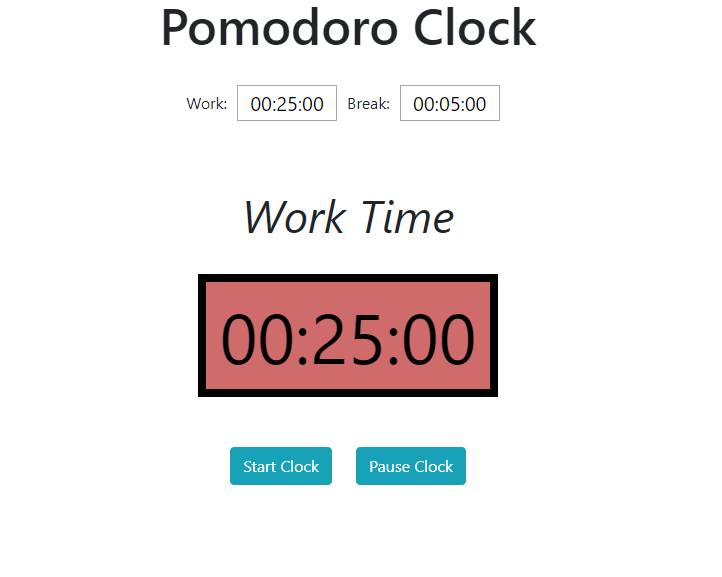
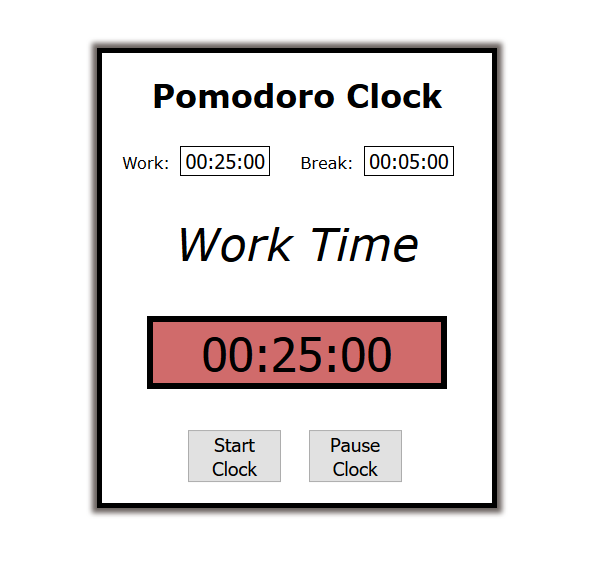
Update Pomodoro project

diff --git a/pomodoro/js/index.js b/pomodoro/js/index.js
@@ -1,16 +1,18 @@
-'use strict';
-
 function _toConsumableArray(arr) { if (Array.isArray(arr)) { for (var i = 0, arr2 = Array(arr.length); i < arr.length; i++) { arr2[i] = arr[i]; } return arr2; } else { return Array.from(arr); } }
 
-var pomodoroClock = function createClock() {
-  var workTime = document.querySelector('#workTime');
-  var breakTime = document.querySelector('#breakTime');
-  var startBtn = document.querySelector('.startClock');
-  var errMsg = document.querySelector('.errMsg');
-  var promptChange = { workTime: false, breakTime: false };
+var pomodoroClock = function () {
+  "use strict";
+
+  var workTime = document.querySelector(".workTime");
+  var breakTime = document.querySelector(".breakTime");
+  var startBtn = document.querySelector(".js-start-clock");
+  var pauseBtn = document.querySelector(".js-pause-clock");
+  var errMsg = document.querySelector(".js-err-msg");
   var intervalID = 0;
   var clockPaused = false;
   var isABreak = false;
+  var promptChange = { 'workTime': false, 'breakTime': false };
+  var tme = void 0;
 
   var validation = function validation(inputEvent) {
     var inputEle = inputEvent.target;
@@ -20,17 +22,14 @@ var pomodoroClock = function createClock() {
 
     // check length & characters
     if (timeStr.match(re) !== null) {
-      // handle cross browser differences in the input event object
-      if (inputEvent.srcElement !== undefined) {
-        promptChange[inputEvent.srcElement.id] = true;
-      } else if (inputEvent.target !== undefined) {
-        promptChange[inputEvent.target.id] = true;
-      }
+      promptChange[inputEle.className] = true;
       startBtn.disabled = false;
+      pauseBtn.disabled = false;
       inputEle.style.background = '#FFFFFF';
       errMsg.innerText = '';
     } else {
       startBtn.disabled = true;
+      pauseBtn.disabled = true;
       inputEle.style.background = '#C02424';
       errMsg.innerText = 'hh:mm:ss';
     }
@@ -47,8 +46,7 @@ var pomodoroClock = function createClock() {
   };
 
   var startClock = function startClock() {
-    var clock = document.querySelector('.clock');
-    var tme = void 0;
+    var clock = document.querySelector(".js-clock");
 
     // converts a time string to a date value, and sets the clock's initial value
     var setTime = function setTime(timeStr) {
@@ -64,20 +62,22 @@ var pomodoroClock = function createClock() {
     // start the pomodoro clock countdown
     var countdown = function countdown() {
       // handle transitions between work periods and break periods
-      if (clock.value === '00:00:00') {
+      // mutiple date object functions in if statement used as a workaround
+      // to handle Edge/IE bug when checking value of the clock input element.
+      // (clock.value === '00:00:00' never returns 'true' in MS browsers)
+      if (tme.getHours() === 0 && tme.getMinutes() === 0 && tme.getSeconds() === 0) {
         clearInterval(intervalID);
-        document.querySelector('.timer').play();
+        document.querySelector(".js-timer").play();
         if (!isABreak) {
           isABreak = true;
-          document.querySelector('.indicator').innerText = 'Break Time';
+          document.querySelector(".js-indicator").innerText = "Break Time";
           tme = setTime(breakTime.value);
-          intervalID = setInterval(countdown, 1000);
         } else {
           isABreak = false;
-          document.querySelector('.indicator').innerText = 'Work Time';
+          document.querySelector(".js-indicator").innerText = "Work Time";
           tme = setTime(workTime.value);
-          intervalID = setInterval(countdown, 1000);
         }
+        intervalID = setInterval(countdown, 1000);
       }
 
       // decrement clock time by 1 second
@@ -85,6 +85,7 @@ var pomodoroClock = function createClock() {
       // display on the web document
       clock.value = tme.toLocaleTimeString('en-GB');
     };
+
     if (workTime.value === '00:00:00' || breakTime.value === '00:00:00') {
       errMsg.innerText = 'Be sure to enter a duration for each period!';
       return;
@@ -97,13 +98,11 @@ var pomodoroClock = function createClock() {
     // ensure clock responds to user interaction
     if (!clockPaused) {
       tme = setTime(workTime.value);
-      document.querySelector('.indicator').innerText = 'Work Time';
+      document.querySelector(".js-indicator").innerText = "Work Time";
     } else if (promptChange.workTime && !isABreak) {
       tme = setTime(workTime.value);
     } else if (promptChange.breakTime && isABreak) {
       tme = setTime(breakTime.value);
-    } else {
-      tme = setTime(clock.value);
     }
 
     clockPaused = false;
@@ -126,10 +125,10 @@ var pomodoroClock = function createClock() {
   };
 }();
 
-document.querySelector('#workTime').addEventListener('input', pomodoroClock.validation);
+document.querySelector('.workTime').addEventListener('input', pomodoroClock.validation);
 
-document.querySelector('#breakTime').addEventListener('input', pomodoroClock.validation);
+document.querySelector('.breakTime').addEventListener('input', pomodoroClock.validation);
 
-document.querySelector('.startClock').addEventListener('click', pomodoroClock.startClock);
+document.querySelector(".js-start-clock").addEventListener("click", pomodoroClock.startClock);
 
-document.querySelector('.pauseClock').addEventListener('click', pomodoroClock.pauseClock);
+document.querySelector(".js-pause-clock").addEventListener("click", pomodoroClock.pauseClock);

diff --git a/pomodoro/index.html b/pomodoro/index.html
@@ -5,10 +5,10 @@
   <meta charset="UTF-8">
   <title>Pomodoro Clock</title>
   <meta charset="utf-8">
+<meta name="viewport" content="width=device-width, initial-scale=1">
 <title>Pomodoro Clock</title>
   
-  <link rel='stylesheet prefetch' href='https://cdnjs.cloudflare.com/ajax/libs/twitter-bootstrap/4.0.0-beta.2/css/bootstrap.css'>
-
+  
       <link rel="stylesheet" href="css/style.css">
 
   
@@ -16,43 +16,37 @@
 
 <body>
 
-  <div class="container-fluid">
+  <audio class="js-timer" src="https://www.soundjay.com/clock/sounds/alarm-clock-01.mp3" autostart="false"></audio>
 
-  <audio class="timer" src="https://www.soundjay.com/clock/sounds/alarm-clock-01.mp3" autostart="false"></audio>
+  <div class="container">
 
-  <div class="row">
-    <div class="mx-auto">
-      <h1>Pomodoro Clock</h1>
-     </div>
-  </div>
+    <h1>Pomodoro Clock</h1>
 
-  <div class="row">
-    <div class="mx-auto userPrompts">
-      <form class="form-inline">
-        <div class="form-group">
-          <label>Work:<input type="text" id="workTime" class="prompt text-center" value="00:25:00" /></label>
-          <label>Break:<input type="text" id="breakTime" class="prompt text-center" value="00:05:00" /></label>
-          <label class="errMsg"></label>
+    <div class="form-container">
+      <form>
+        <div class="prompt">
+          <label>Work:<input type="text" class="workTime" value="00:25:00" /></label>
+        </div>
+        <div class="prompt">
+          <label>Break:<input type="text" class="breakTime" value="00:05:00" /></label>
         </div>
       </form>
     </div>
-  </div>
 
-  <div class="row">
-    <div class="mx-auto clockContainer">
-      <p class="indicator text-center">Work Time</p>
-        <input type="text" class="clock text-center" value="00:25:00" readonly />
+    <p class="err-msg js-err-msg"></p>
+
+    <p class="indicator js-indicator">Work Time</p>
+
+    <div class="clock-container">
+      <input type="text" class="clock js-clock" value="00:25:00" readonly />
     </div>
-  </div>
 
-  <div class="row">
-    <div class="mx-auto userButtons">
-      <button type="button" class="btn btn-info startClock">Start Clock</button>
-      <button type="button" class="btn btn-info pauseClock">Pause Clock</button>
+    <div class="btn-container">
+      <button type="button" class="js-start-clock">Start Clock</button>
+      <button type="button" class="js-pause-clock">Pause Clock</button>
     </div>
-  </div>
 
-</div>
+  </div>
   
   
 

diff --git a/pomodoro/css/style.css b/pomodoro/css/style.css
@@ -1,41 +1,85 @@
+* {
+  box-sizing: border-box;
+}
+
+body {
+  font-family: Verdana, sans-serif;
+}
+
 h1 {
-  margin-bottom: 20px;
-  font-size: 50px;
+  font-size: 200%;
+  text-align: center;
 }
 
 input {
   margin: 10px;
-  font-size: 20px;
-  width: 100px;
+  font-size: 125%;
+  width: 90px;
+  text-align: center;
+  border: 1px solid;
 }
 
 button {
+  width: 95px;
   margin: 10px;
+  font-size: 120%
 }
 
-.userPrompts {
-  margin-bottom: 20px;
+.container {
+  width: 100%;
+  max-width: 400px;
+  margin: auto;
+  border: 5px solid black;
+  box-shadow: 0px 0px 5px 5px #6B6360;
 }
 
-.errMsg {
+@media (min-height: 460px) {
+  .container {
+    position: absolute;
+    top: 50%;
+    left: 50%;
+    transform: translate(-50%, -50%);
+  }
+}
+
+.prompt {
+  float: left;
+  margin-left: 20px;
+}
+
+.err-msg {
+  clear: left;
+  color: #C6070B;
   font-style: italic;
   font-weight: 900;
-  color: #F20C0C;
+  text-align: center;
+  text-shadow: 1px 1px 2px;
 }
 
 .indicator {
   font-size: 45px;
   font-style: italic;
+  text-align: center;
 }
 
-.clockContainer {
-  margin-top: 30px;
-  margin-bottom: 30px;
+.clock-container {
+  width: 100%;
+  max-width: 300px;
+  margin: 30px auto;
+  background-color: #D06B6B;
+  border: 6px solid black;
 }
 
 .clock {
-  font-size: 70px;
-  width: 300px;
-  background-color: #D06B6B;
-  border: 8px solid black;
+  width: inherit;
+  margin: 0px;
+  border: 0px;
+  background-color: inherit;
+  font-size: 300%;
+  text-align: center;
+}
+
+.btn-container {
+  width: 240px;
+  margin: 10px auto;
 }
